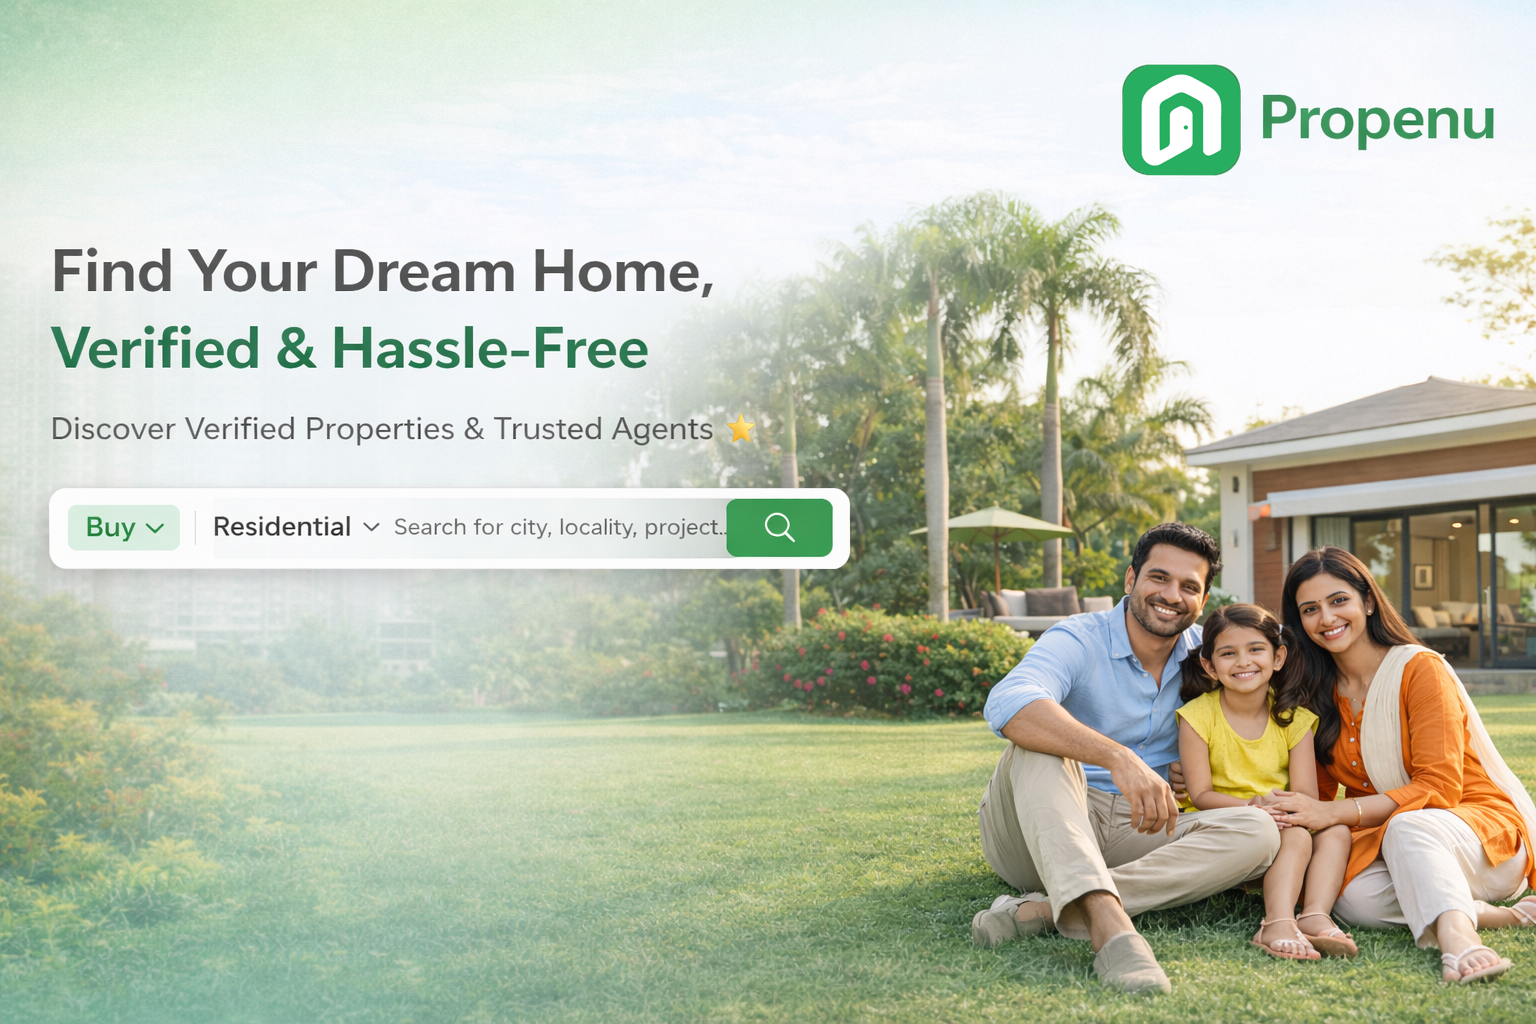
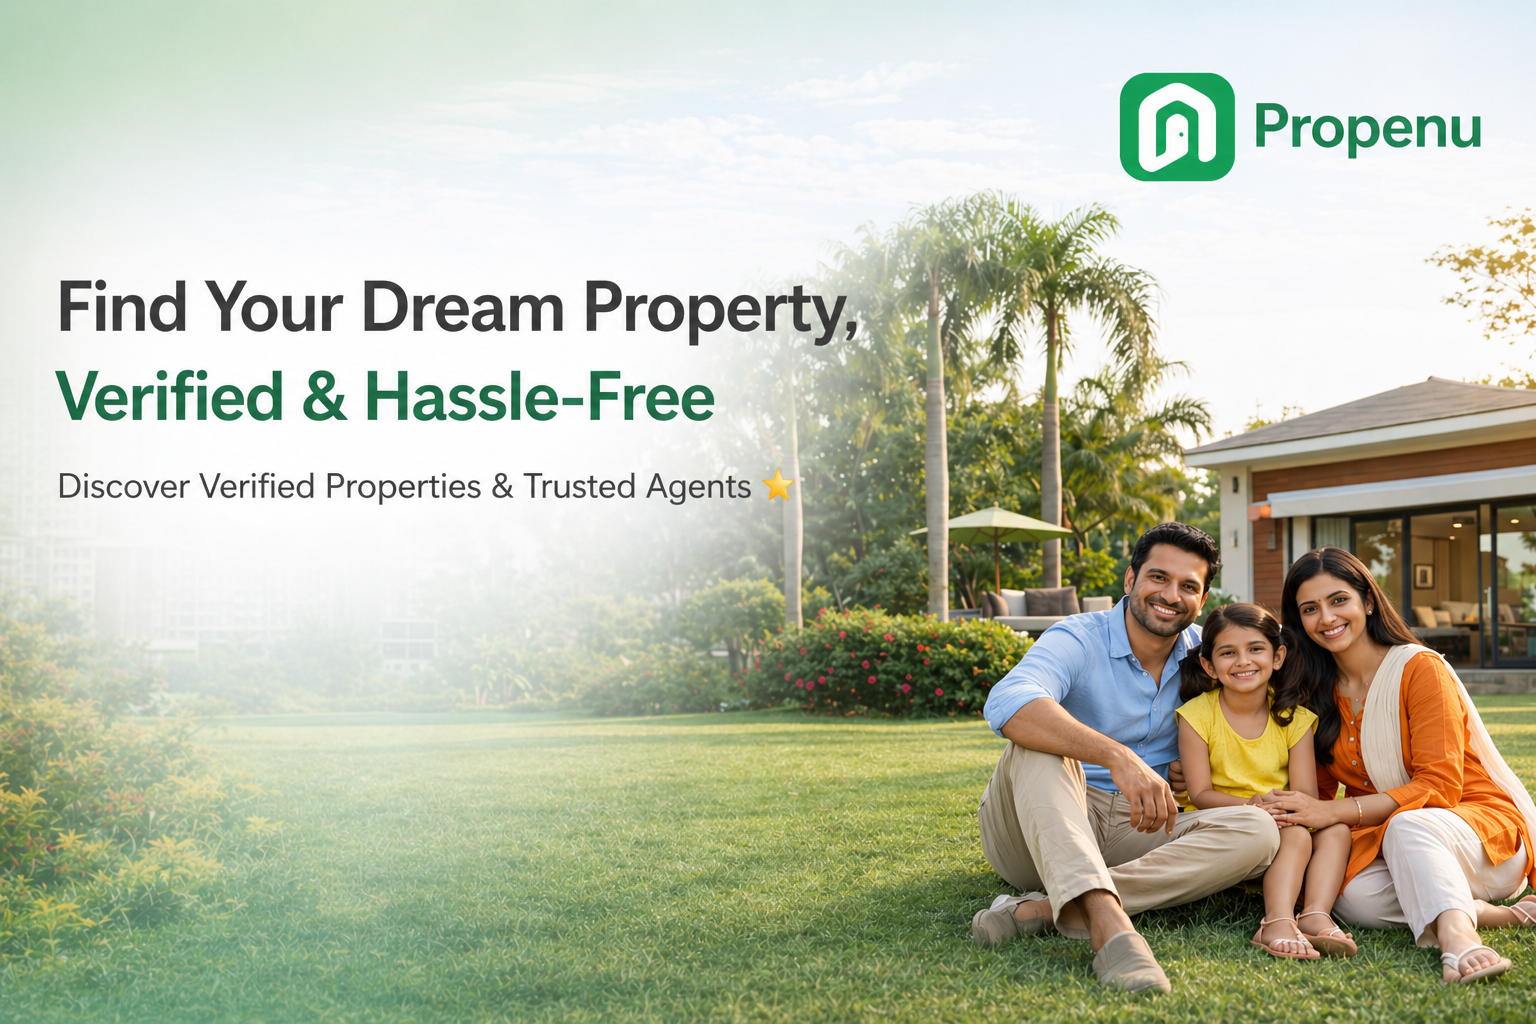
apps published successfully in playstore and appstore, Saturday 25th April 2026

diff --git a/src/screens/PostPropertyScreen/StepsIndicator.js b/src/screens/PostPropertyScreen/StepsIndicator.js
@@ -22,8 +22,9 @@ const StepIndicator = ({ steps = [], currentStep = 0 }) => {
     <View style={styles.container}>
       <View style={styles.headerRow}>
         {/* {currentStep > 0 && ( */}
+        {currentStep !== 0 &&
         <Pressable
-          disabled={isDisabled}
+          // disabled={isDisabled}
           onPress={() => dispatch(prevStep())}
           hitSlop={10}
         >
@@ -32,7 +33,7 @@ const StepIndicator = ({ steps = [], currentStep = 0 }) => {
             size={20}
             color={isDisabled ? "#9CA3AF" : "#000"}
           />
-        </Pressable>
+        </Pressable>}
         {/* )} */}
         <View style={styles.help}>
           <Text style={styles.helpText}>Need Help? </Text>

diff --git a/src/screens/HomeScreen/HomeScreen.js b/src/screens/HomeScreen/HomeScreen.js
@@ -193,6 +193,8 @@ const styles = StyleSheet.create({
   homePageImage: {
     width: "100%",
     // borderRadius: 10,
+      // marginHorizontal: 6,
+
   },
   // homePageImage: {
   //   width: "97%",

diff --git a/ReadMe.md b/ReadMe.md
@@ -4,7 +4,7 @@ Built with **React Native (Expo Dev Client)**.
 
 How to Run the Project : 
 Connect your mobile device using a USB cable.
-Enable File Transfer (MTP) and turn on USB Debugging in Developer Options.
+Enable File Transfer (MTP) and turn on USB Debugging in Developer Options.(for android)
 
 Make sure your device is detected: " adb devices. "
 
